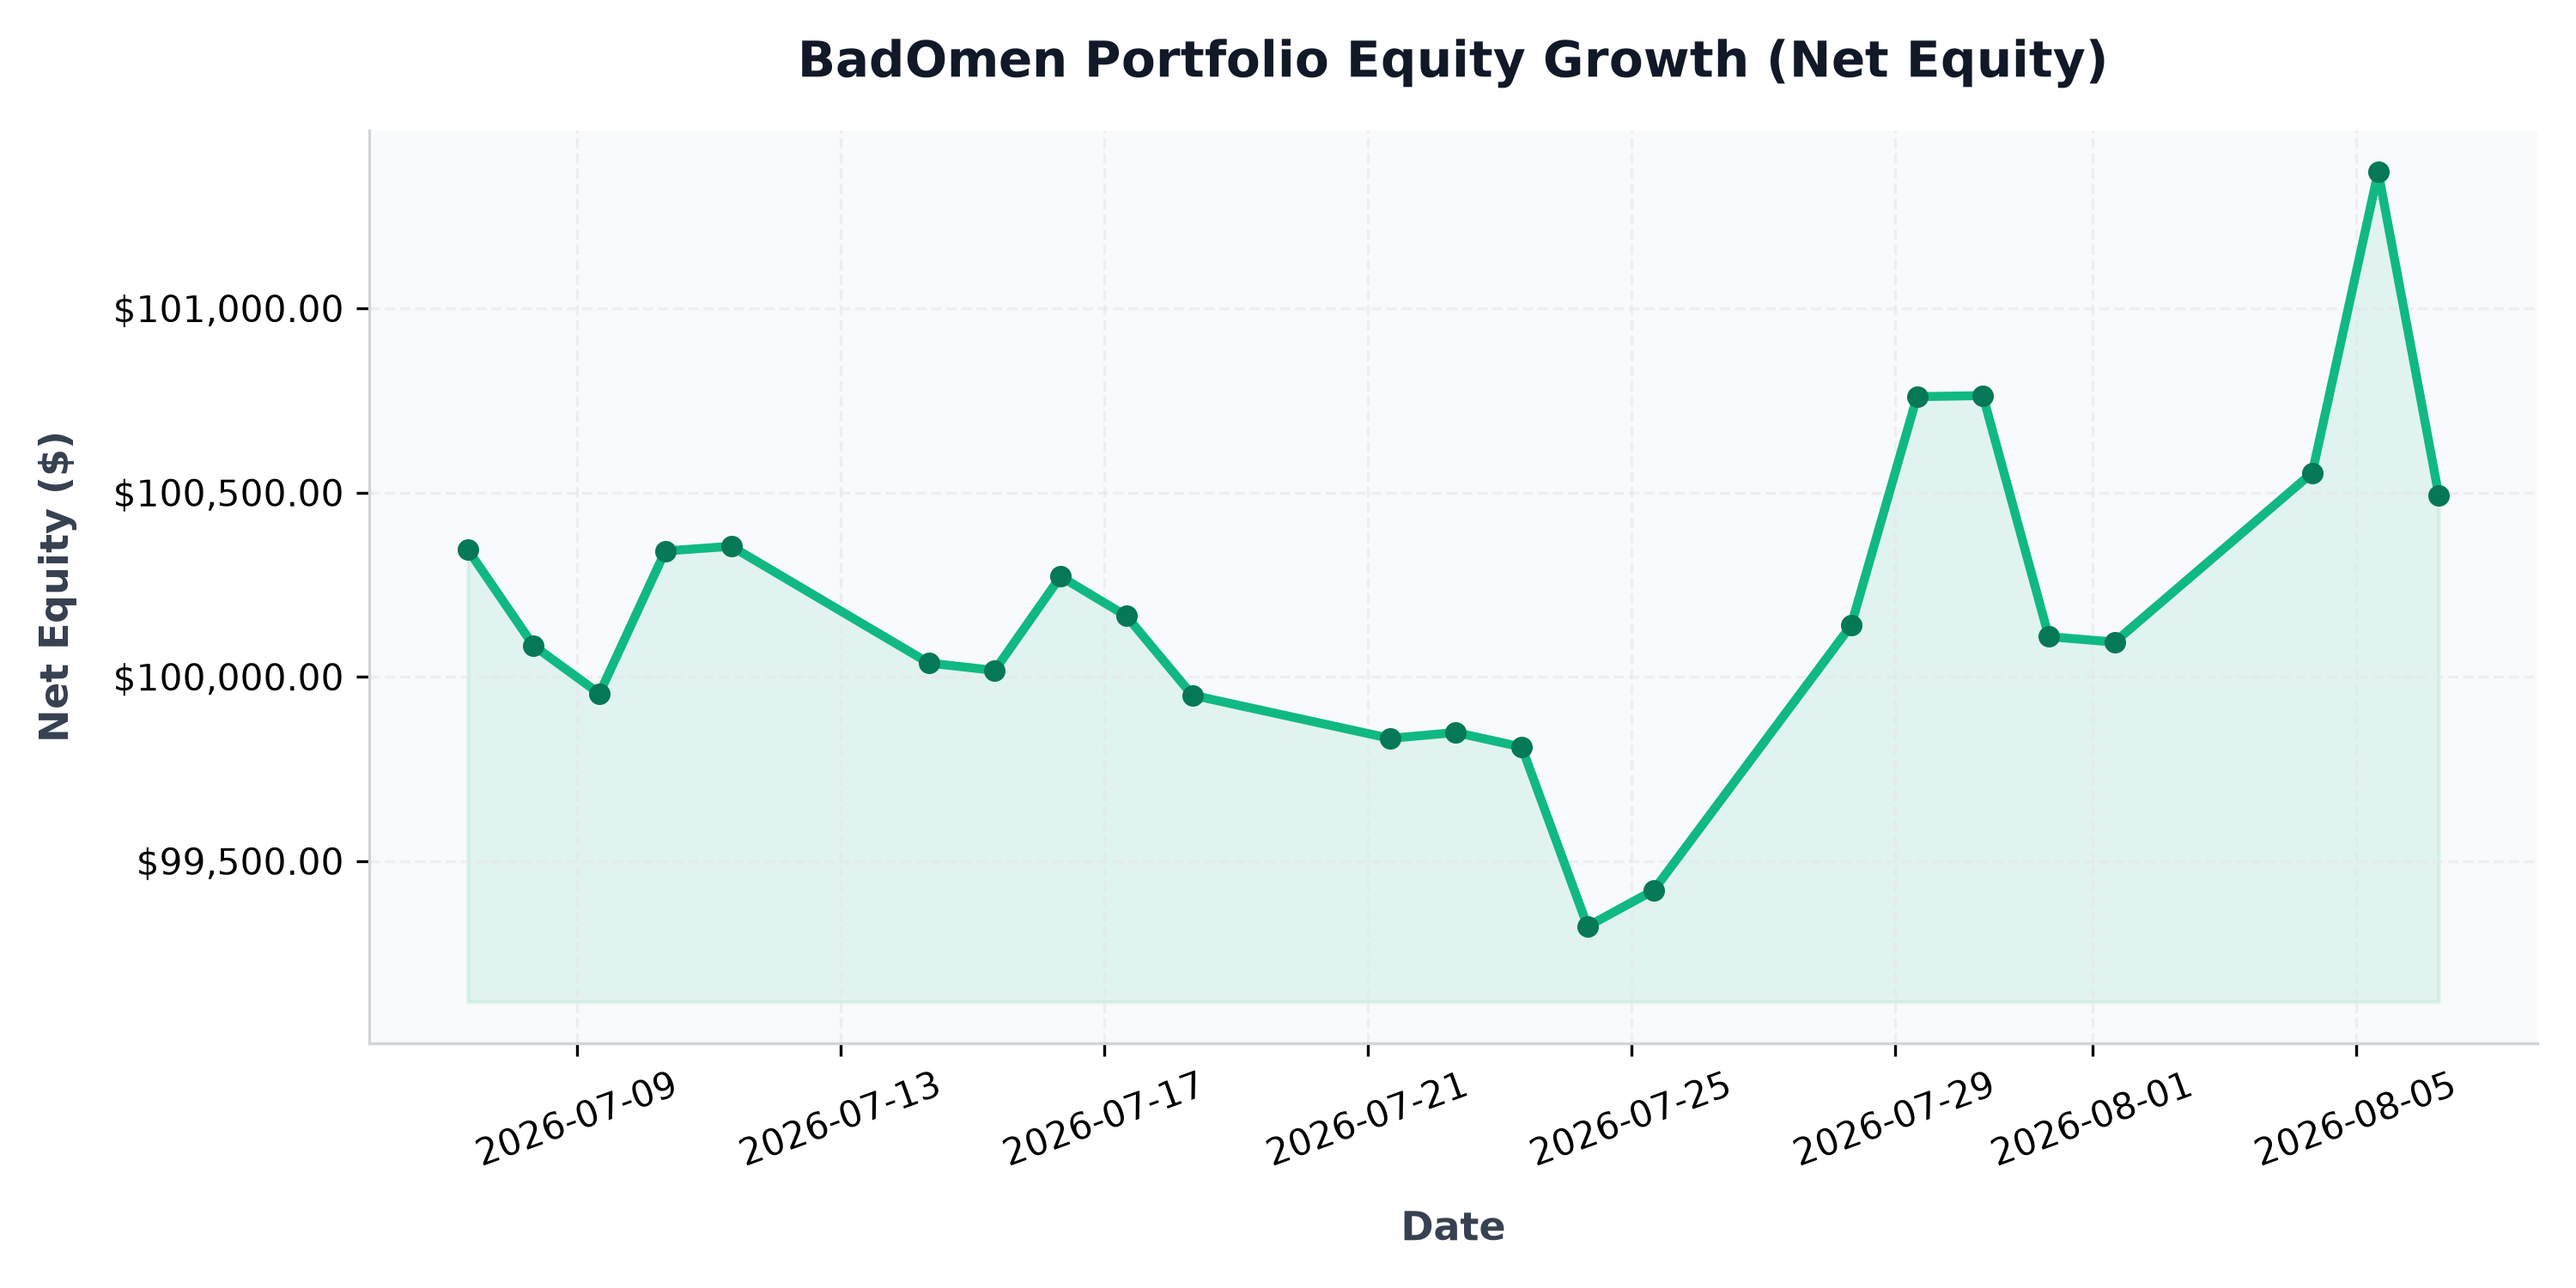
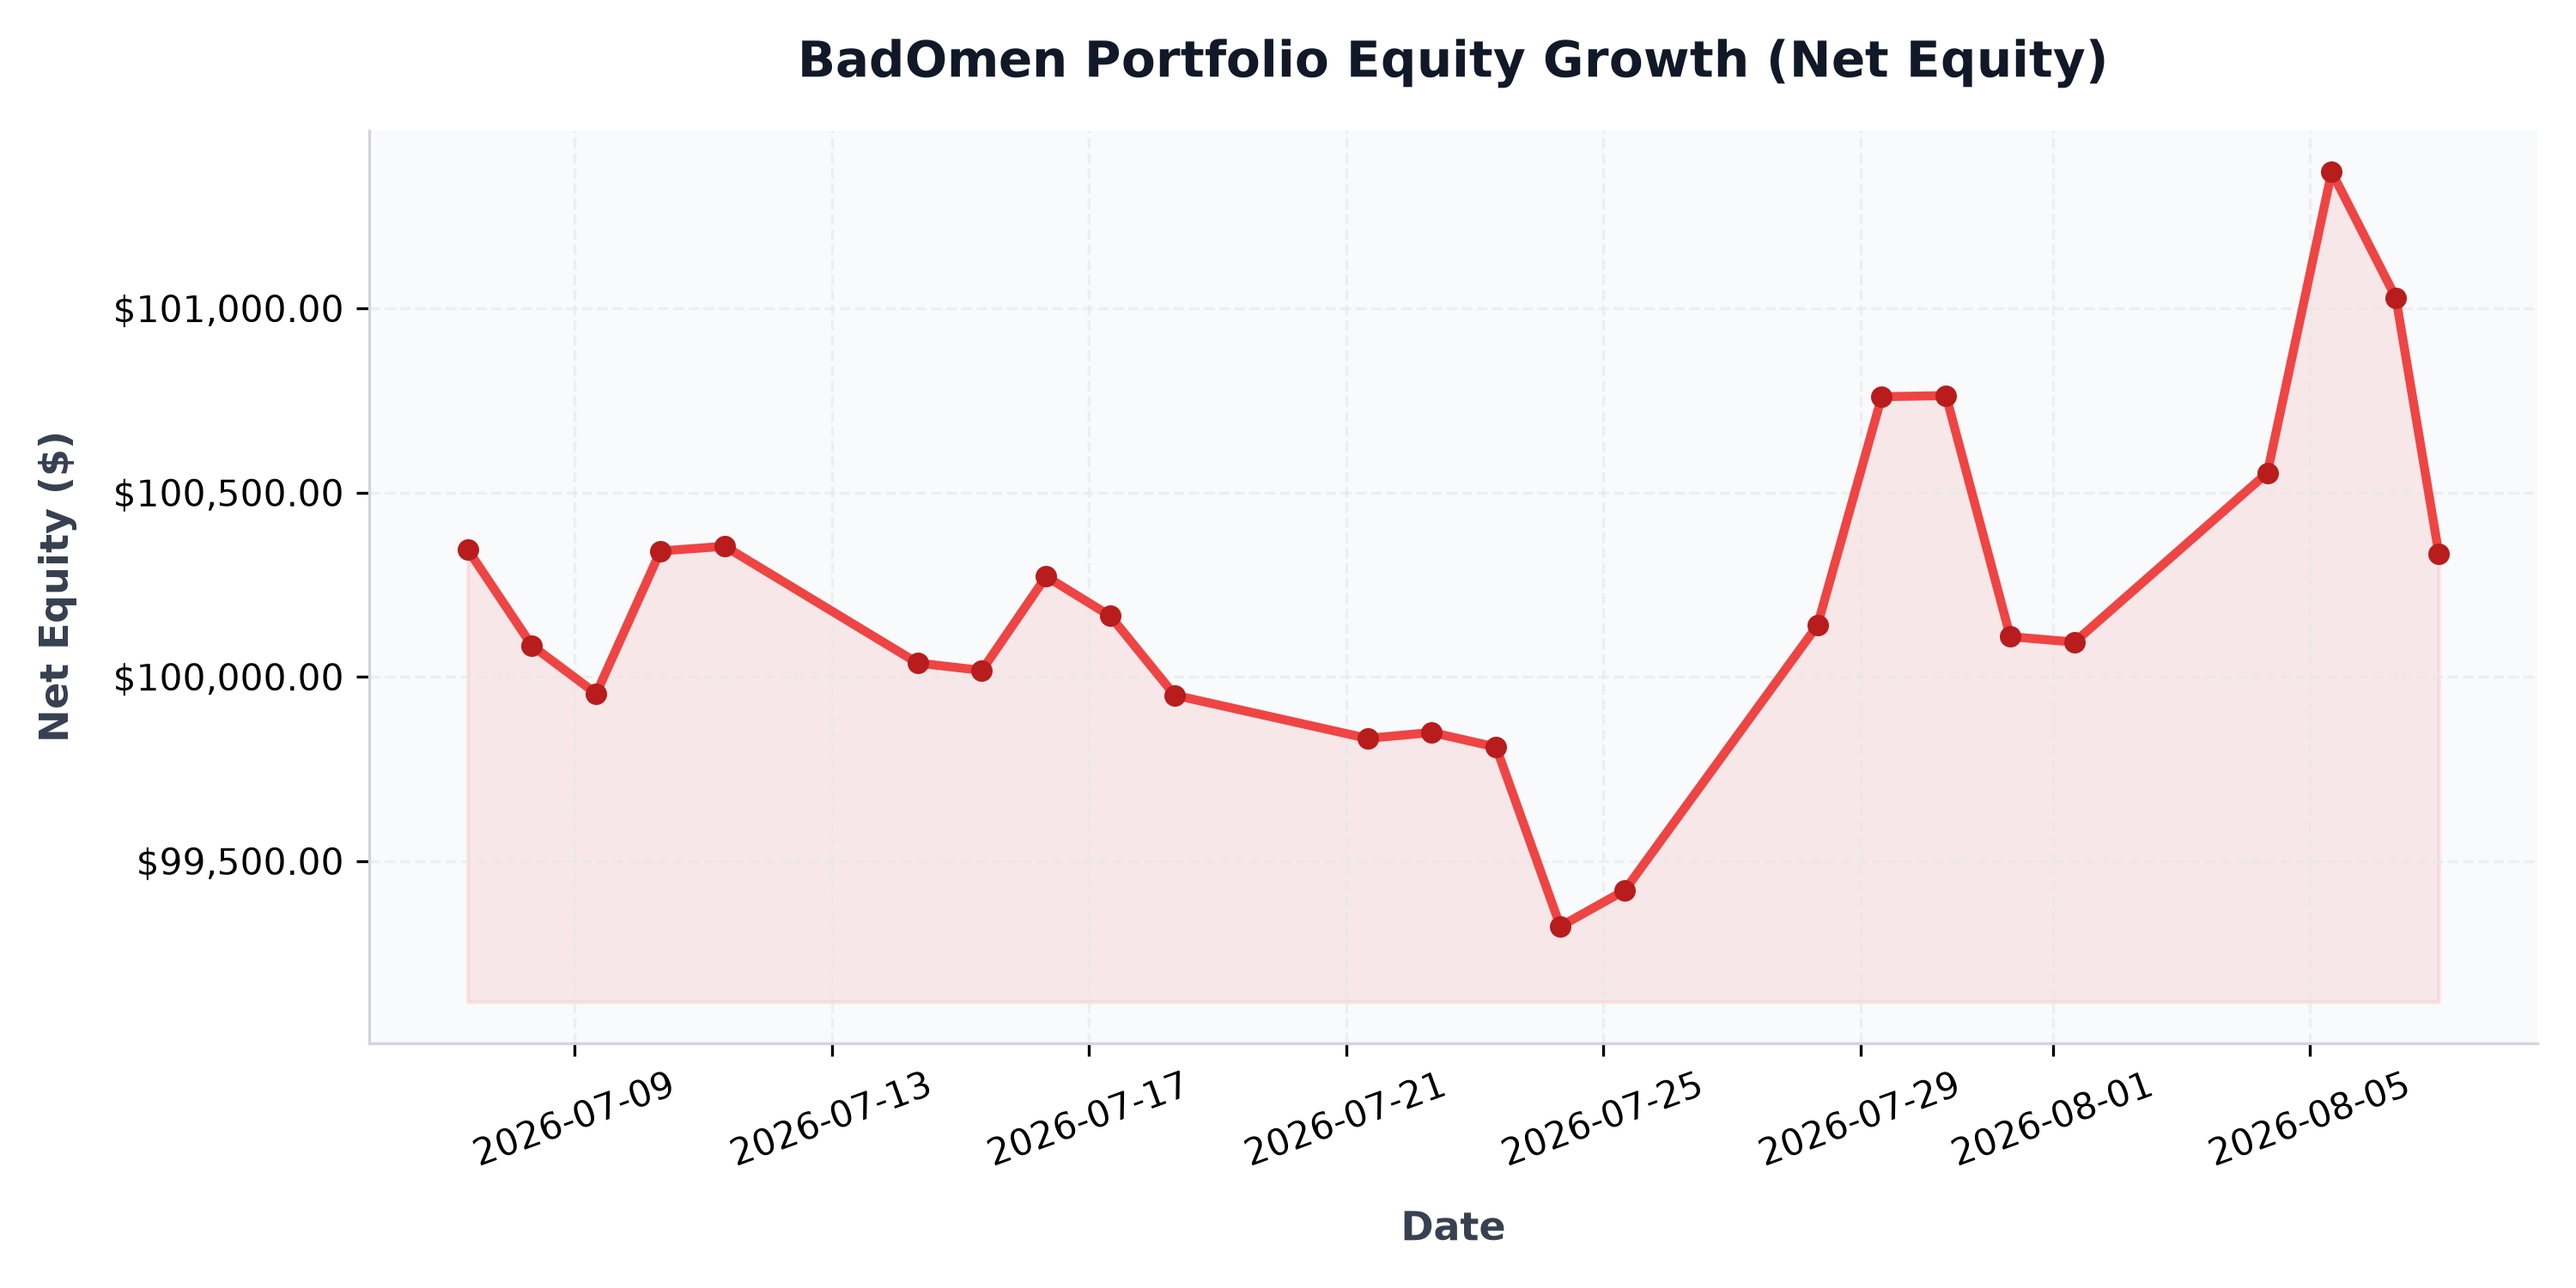
auto: daily portfolio status update - 2026-08-07 00:00:14

diff --git a/src/content/posts/portfolio-performance.md b/src/content/posts/portfolio-performance.md
@@ -1,6 +1,6 @@
 ---
 title: "BadOmen Algorithmic Portfolio Performance & PnL Report"
-pubDatetime: 2026-08-06T06:05:13.406838+08:00
+pubDatetime: 2026-08-07T00:00:14.408216+08:00
 description: "Live performance metrics, active holdings, and historic equity curve for the BadOmen automated paper trading portfolio."
 featured: true
 draft: false
@@ -16,11 +16,11 @@ Welcome to the live performance dashboard for **BadOmen**, our automated algorit
 ## 📊 Portfolio Summary
 | Performance Metric | Value | description |
 | :--- | :--- | :--- |
-| **Net Portfolio Equity** | **$100,492.50** | Total current liquidation value of cash and stock holdings |
-| **Total Unrealized P&L** | 🟢 **+$9.66** (+0.01%) | Total return of current open holdings |
-| **Cash Balance** | $73,054.12 | Idle reserve currency available for limit orders |
-| **Buying Power** | $368,141.98 | Margin-backed buying power for entry allocations |
-| **Report Updated** | `2026-08-06 06:05:13 (SGT)` | Timestamp of daily execution and sync run |
+| **Net Portfolio Equity** | **$100,334.39** | Total current liquidation value of cash and stock holdings |
+| **Total Unrealized P&L** | 🔴 **$-142.86** (-0.14%) | Total return of current open holdings |
+| **Cash Balance** | $72,278.40 | Idle reserve currency available for limit orders |
+| **Buying Power** | $367,670.38 | Margin-backed buying power for entry allocations |
+| **Report Updated** | `2026-08-07 00:00:14 (SGT)` | Timestamp of daily execution and sync run |
 
 ## 📈 Net Equity Growth Curve
 The chart below illustrates the historical performance of the account starting from our baseline capital funding of $100,000.00.
@@ -35,32 +35,32 @@ The chart below illustrates the exposure of our currently held active positions 
 ## 💼 Current Position Holdings
 | Ticker | Industry | Shares Owned | Average Entry Cost | Current Price | Unrealized P&L | Return (%) |
 | :--- | :--- | :--- | :--- | :--- | :--- | :--- |
-| **AN** | Auto & Truck Dealerships | 5 | $188.51 | $215.78 | 🟢 +$136.36 | +14.47% |
-| **AVGO** | Semiconductors | 1 | $385.71 | $419.69 | 🟢 +$33.98 | +8.81% |
-| **BVN** | Other Precious Metals & Mining | 32 | $31.88 | $33.00 | 🟢 +$36.00 | +3.53% |
-| **CELH** | Beverages - Non-Alcoholic | 33 | $29.71 | $29.15 | 🔴 $-18.57 | -1.89% |
-| **DUOL** | Software - Application | 14 | $131.04 | $119.50 | 🔴 $-161.62 | -8.81% |
-| **FIS** | Information Technology Services | 23 | $41.79 | $42.56 | 🟢 +$17.71 | +1.84% |
-| **GDDY** | Software - Infrastructure | 6 | $76.21 | $91.77 | 🟢 +$93.36 | +20.42% |
-| **GDS** | Information Technology Services | 30 | $32.77 | $32.67 | 🔴 $-3.00 | -0.30% |
-| **GGAL** | Banks - Regional | 17 | $56.04 | $48.36 | 🔴 $-130.55 | -13.70% |
-| **GOOGL** | Internet Content & Information | 3 | $319.44 | $363.50 | 🟢 +$132.18 | +13.79% |
-| **GPI** | Auto & Truck Dealerships | 3 | $316.15 | $277.60 | 🔴 $-115.65 | -12.19% |
-| **HUBS** | Software - Application | 4 | $248.44 | $199.00 | 🔴 $-197.77 | -19.90% |
-| **ITRI** | Scientific & Technical Instruments | 12 | $81.80 | $105.57 | 🟢 +$285.24 | +29.06% |
-| **KBR** | Engineering & Construction | 27 | $36.23 | $36.16 | 🔴 $-1.94 | -0.20% |
-| **META** | Internet Content & Information | 1 | $568.17 | $591.20 | 🟢 +$23.03 | +4.05% |
-| **NESR** | Oil & Gas Equipment & Services | 34 | $28.74 | $28.50 | 🔴 $-8.16 | -0.83% |
-| **NU** | Banks - Regional | 85 | $11.60 | $14.47 | 🟢 +$244.07 | +24.76% |
-| **ON** | Semiconductors | 10 | $90.45 | $76.99 | 🔴 $-134.63 | -14.88% |
-| **ORCL** | Software - Infrastructure | 5 | $181.95 | $142.15 | 🔴 $-199.00 | -21.87% |
-| **PATH** | Software - Infrastructure | 84 | $10.33 | $13.53 | 🟢 +$268.30 | +30.92% |
-| **PYPL** | Credit Services | 17 | $56.05 | $58.30 | 🟢 +$38.25 | +4.01% |
-| **QCOM** | Semiconductors | 15 | $193.68 | $157.26 | 🔴 $-546.35 | -18.81% |
-| **SMCI** | Computer Hardware | 33 | $29.25 | $30.28 | 🟢 +$33.97 | +3.52% |
-| **T** | Telecom Services | 47 | $20.85 | $23.04 | 🟢 +$102.79 | +10.49% |
-| **WEN** | Restaurants | 257 | $8.02 | $7.98 | 🔴 $-11.24 | -0.55% |
-| **ZG** | Internet Content & Information | 31 | $31.35 | $34.35 | 🟢 +$92.90 | +9.56% |
+| **AN** | Auto & Truck Dealerships | 5 | $188.51 | $213.41 | 🟢 +$124.53 | +13.21% |
+| **AVGO** | Semiconductors | 1 | $385.71 | $422.60 | 🟢 +$36.89 | +9.56% |
+| **BVN** | Other Precious Metals & Mining | 32 | $31.88 | $32.66 | 🟢 +$25.12 | +2.46% |
+| **CELH** | Beverages - Non-Alcoholic | 33 | $29.71 | $24.18 | 🔴 $-182.74 | -18.64% |
+| **DUOL** | Software - Application | 14 | $131.04 | $123.44 | 🔴 $-106.46 | -5.80% |
+| **FIS** | Information Technology Services | 23 | $41.79 | $42.51 | 🟢 +$16.56 | +1.72% |
+| **GDDY** | Software - Infrastructure | 6 | $76.21 | $89.17 | 🟢 +$77.76 | +17.01% |
+| **GDS** | Information Technology Services | 30 | $32.77 | $31.89 | 🔴 $-26.55 | -2.70% |
+| **GGAL** | Banks - Regional | 17 | $56.04 | $47.77 | 🔴 $-140.67 | -14.77% |
+| **GOOGL** | Internet Content & Information | 3 | $319.44 | $358.99 | 🟢 +$118.65 | +12.38% |
+| **GPI** | Auto & Truck Dealerships | 3 | $316.15 | $273.74 | 🔴 $-127.23 | -13.41% |
+| **HUBS** | Software - Application | 8 | $221.18 | $197.82 | 🔴 $-186.89 | -10.56% |
+| **ITRI** | Scientific & Technical Instruments | 12 | $81.80 | $104.09 | 🟢 +$267.48 | +27.25% |
+| **KBR** | Engineering & Construction | 27 | $36.23 | $37.60 | 🟢 +$37.04 | +3.79% |
+| **META** | Internet Content & Information | 1 | $568.17 | $587.89 | 🟢 +$19.72 | +3.47% |
+| **NESR** | Oil & Gas Equipment & Services | 34 | $28.74 | $29.40 | 🟢 +$22.44 | +2.30% |
+| **NU** | Banks - Regional | 85 | $11.60 | $14.23 | 🟢 +$223.67 | +22.69% |
+| **ON** | Semiconductors | 10 | $90.45 | $79.01 | 🔴 $-114.45 | -12.65% |
+| **ORCL** | Software - Infrastructure | 5 | $181.95 | $144.72 | 🔴 $-186.12 | -20.46% |
+| **PATH** | Software - Infrastructure | 84 | $10.25 | $13.94 | 🟢 +$309.54 | +35.95% |
+| **PYPL** | Credit Services | 17 | $56.05 | $58.98 | 🟢 +$49.73 | +5.22% |
+| **QCOM** | Semiconductors | 15 | $193.68 | $160.15 | 🔴 $-503.04 | -17.32% |
+| **SMCI** | Computer Hardware | 33 | $29.25 | $30.33 | 🟢 +$35.64 | +3.69% |
+| **T** | Telecom Services | 47 | $20.85 | $23.55 | 🟢 +$126.67 | +12.93% |
+| **WEN** | Restaurants | 257 | $8.02 | $7.69 | 🔴 $-85.77 | -4.16% |
+| **ZG** | Internet Content & Information | 31 | $31.35 | $32.18 | 🟢 +$25.63 | +2.64% |
 
 ## 🔴 Recent Realized Trades
 | Ticker | Shares Sold | Entry Price | Exit Price | Strategy Trigger | Realized Return | Exit Date |
